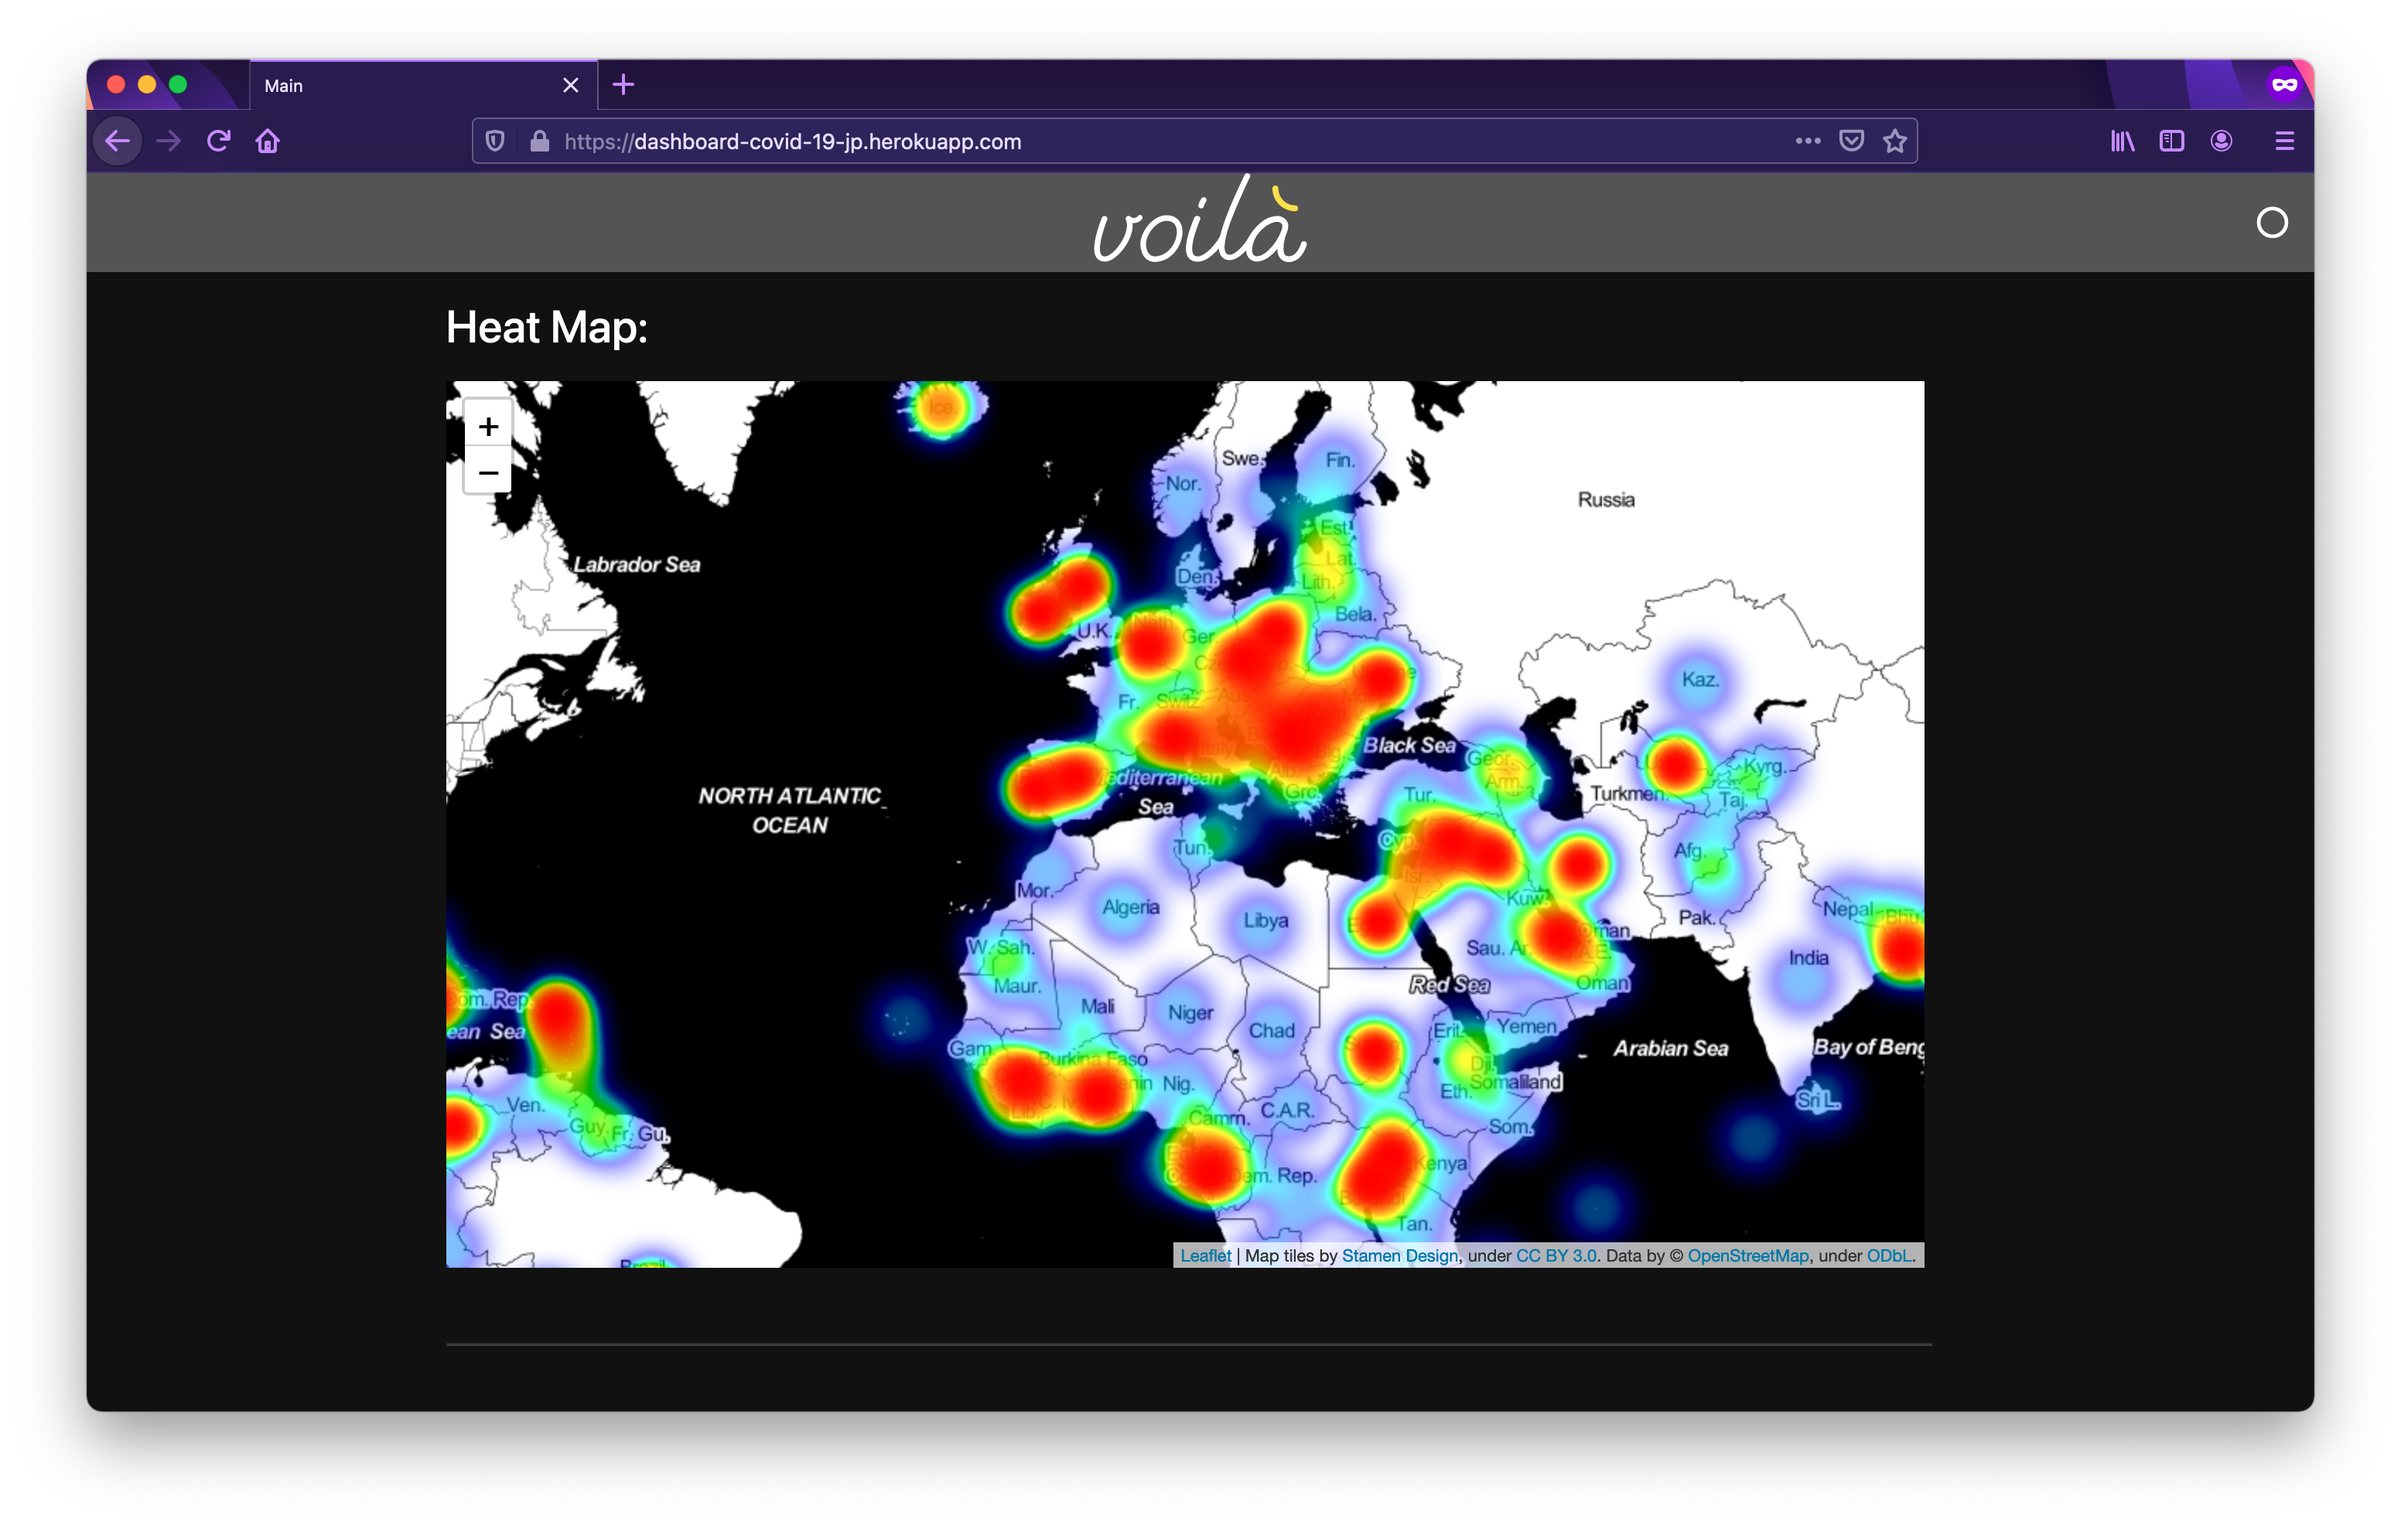
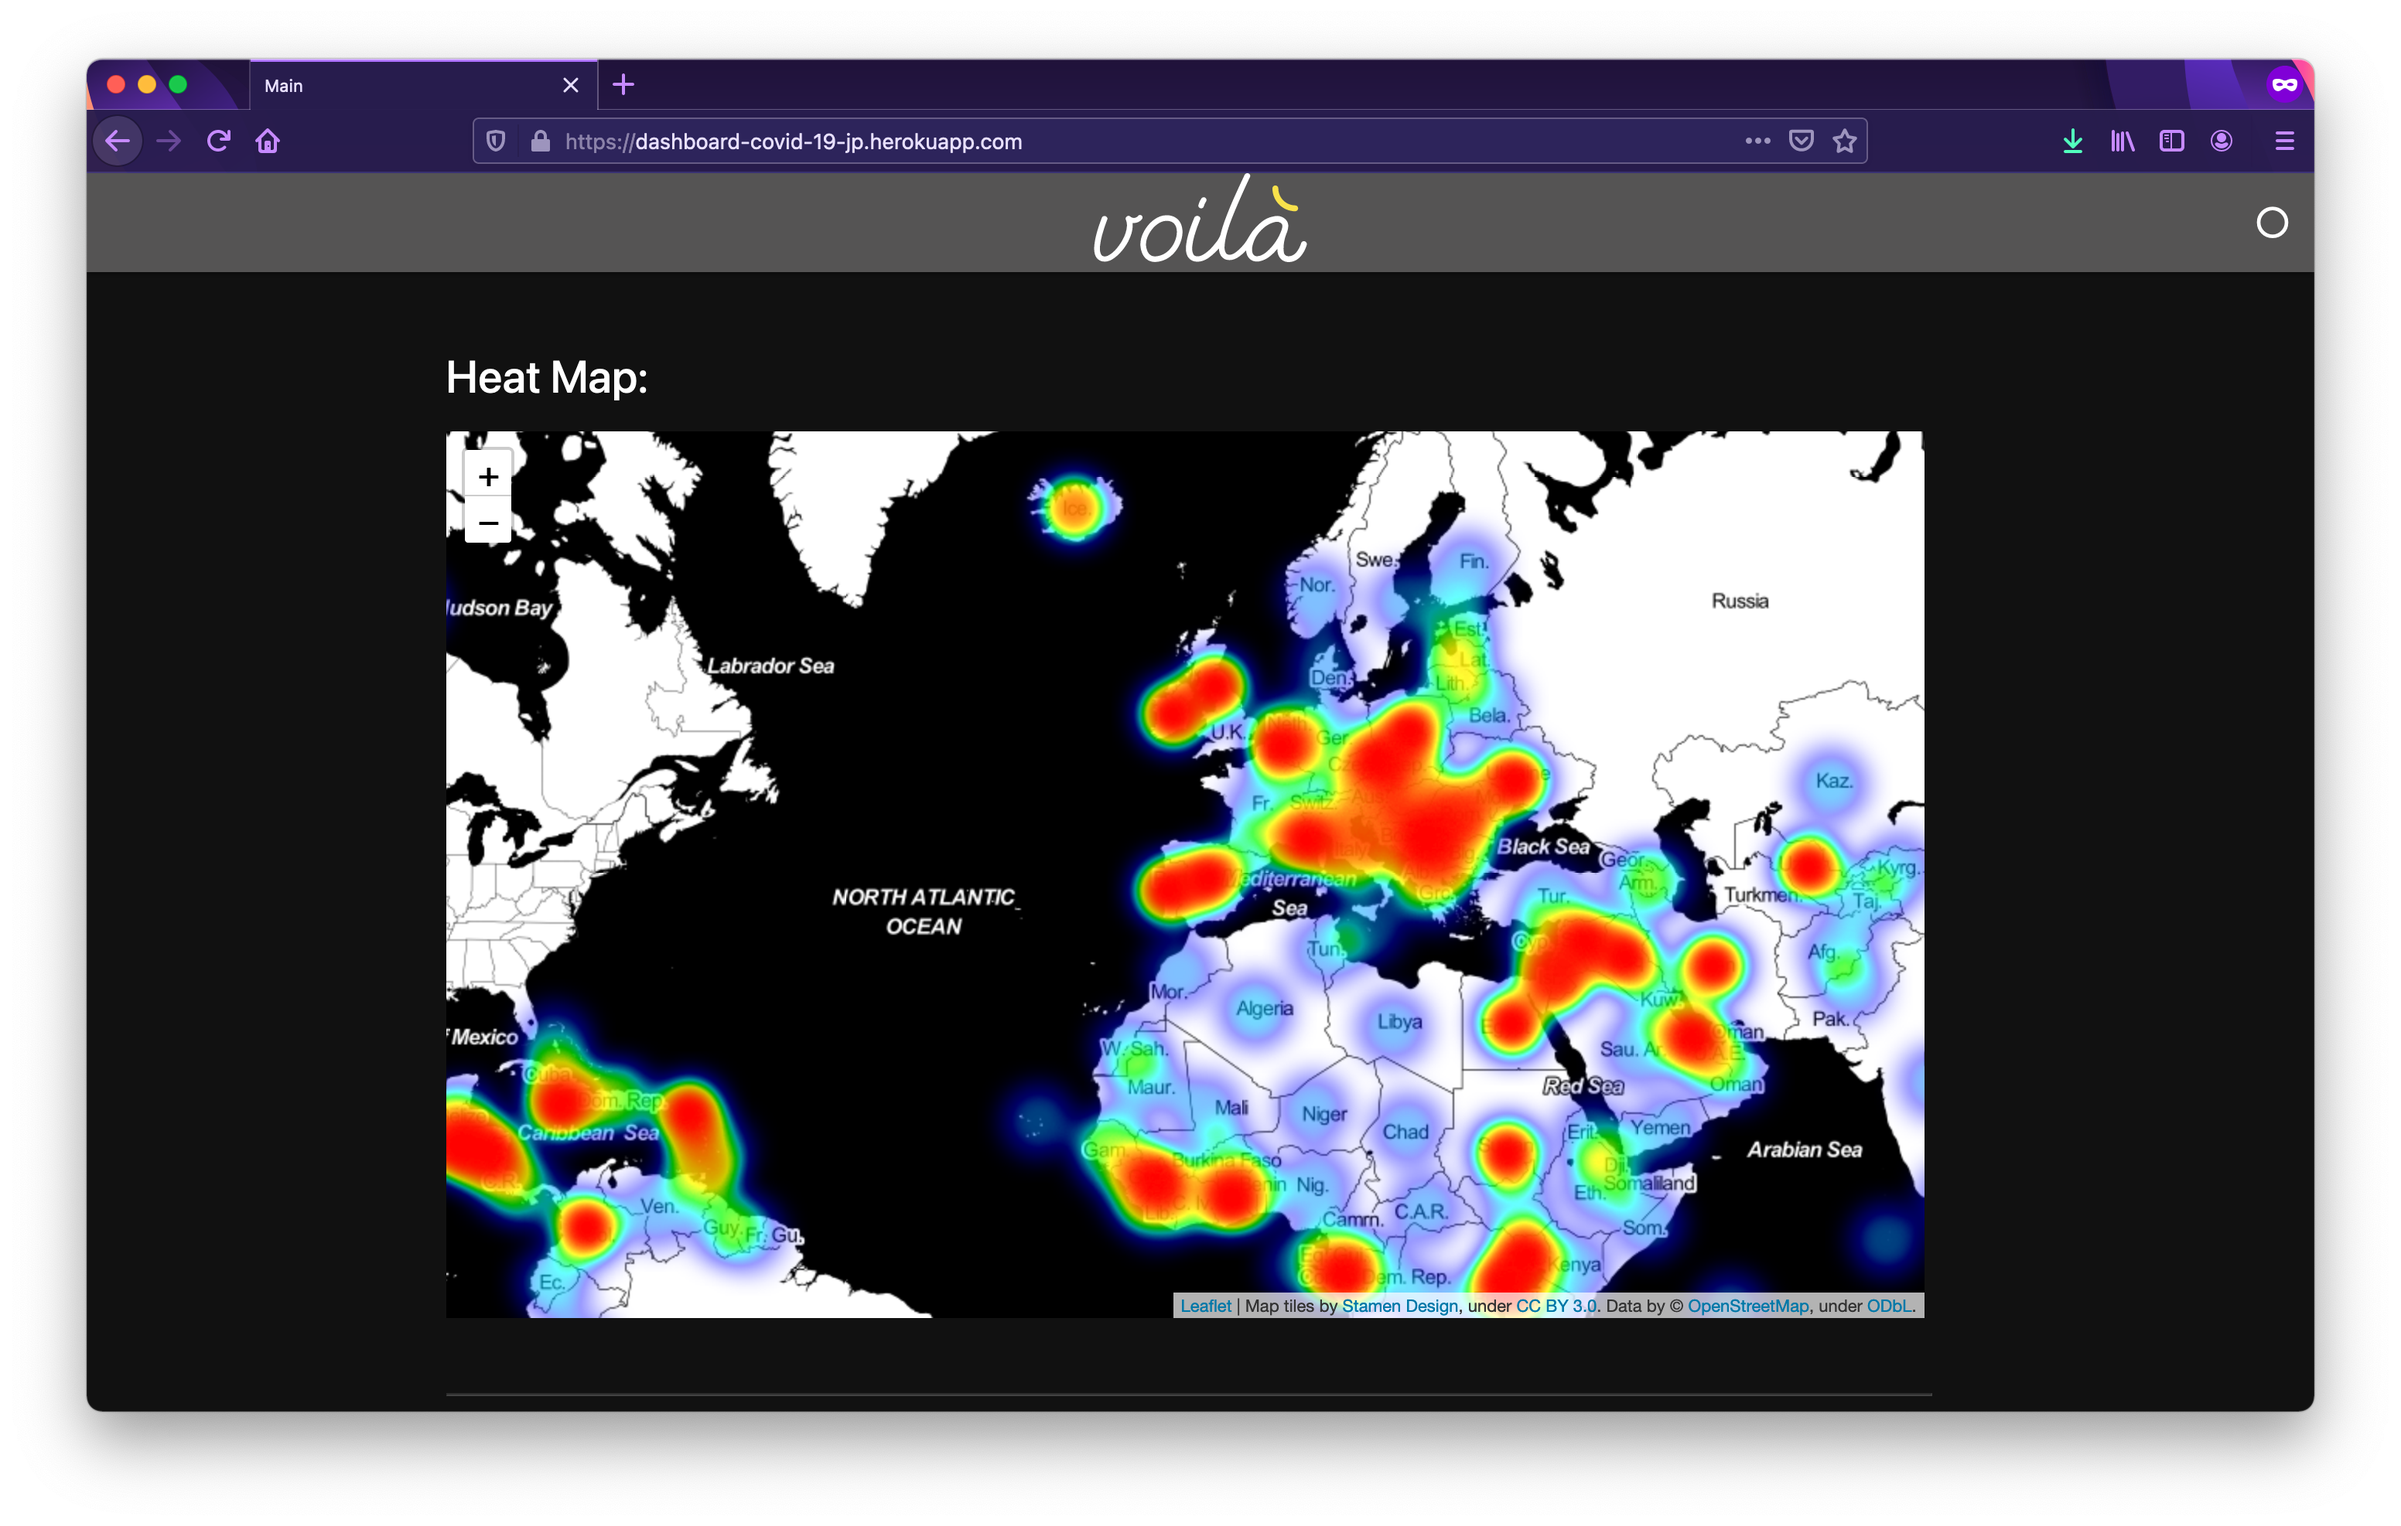
minor changes

Changed region(s): [[0.1875, 0.1854, 0.8125, 0.8652], [0.75, 0.0618, 0.7812, 0.0927]]

diff --git a/README.md b/README.md
@@ -1,11 +1,11 @@
 # Covid-Dashboard
 Deployed Dashboard: https://dashboard-covid-19-jp.herokuapp.com
 ***
-A simple dashboard showing the spread of covid-19 using World map and Heat map.
+An interactive dashboard showing the spread of covid-19 using World map and Heat map.
 
 ## Installation and Usage:
 
-Download and extract the source code and run ```Main.ipynb``` in the notebook folder.
+Download and extract the source code and run `Main.ipynb` in the notebook folder.
 
 You can also clone the repository using:
 ```
@@ -21,20 +21,23 @@ pip install -r requirements.txt
 
 ## World view:
 
-![FullView](/assets/full_view.png)
+![FullView](/assets/new/World.png)
 
 
 ## India District-wise view
 ![district-1](/assets/district-1.png)
 
-![district-2](/assets/district-2.png)
+![district-2](/assets/new/India-zoom-in.png)
+
+## Ploted Graph
+![HeatMap](/assets/new/Plot.png)
 
 ## Heat Map
-![HeatMap](/assets/HeatMap.PNG)
+![HeatMap](/assets/new/HeatMap.png)
 
 ## Resource Data:
 https://github.com/CSSEGISandData/COVID-19
 
 ## License 
 
-This repository is under The MIT License. Read the [LICENSE](https://github.com/jayanpraveen/covid-dashboard/blob/master/LICENSE.md) file for more information.
+This repository is under The MIT License. Read the [LICENSE](https://github.com/jayanpraveen/covid-dashboard/blob/master/.github/LICENSE.md) file for more information.
